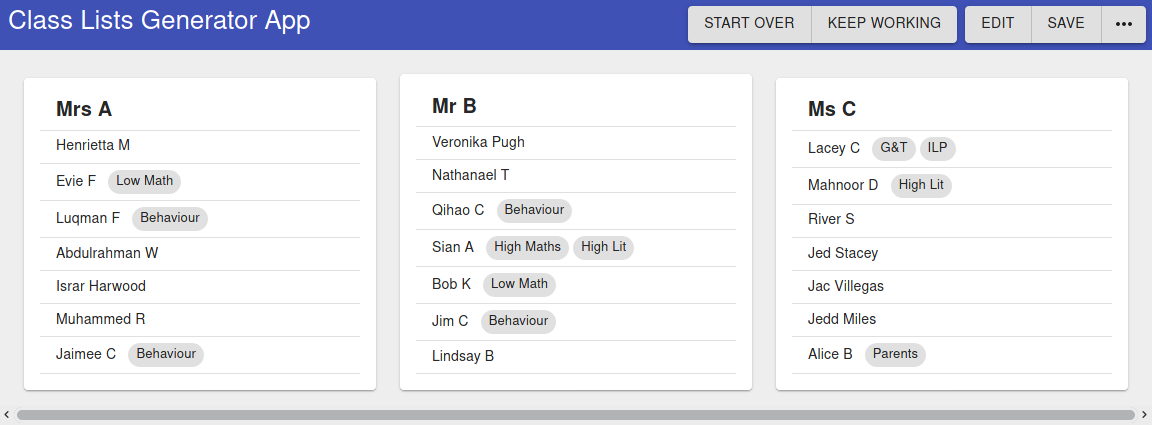
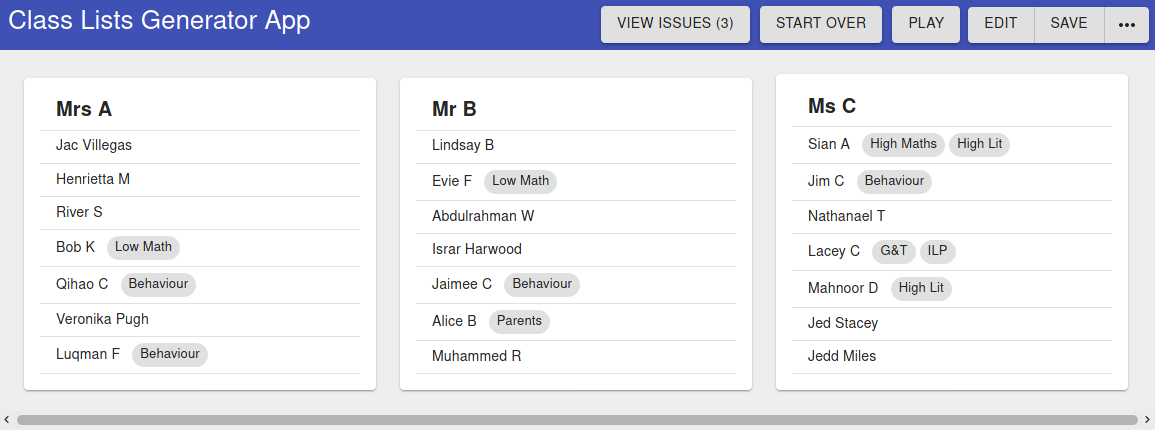
Fix usability issue with button widths

diff --git a/src/components/header.js b/src/components/header.js
@@ -49,19 +49,27 @@ export default function Header (props) {
   )}
   { props.showOptions &&
   <Box className={classes.headerRight}>
-    <Button onClick={props.viewIssues} color='default' variant='contained'>
+    <Button
+      onClick={props.viewIssues}
+      color='default' variant='contained' style={{marginRight: "10px"}}
+    >
       View issues ({props.issues.length})
     </Button>
     {props.state !== 'editing' &&
-      <ButtonGroup
-        variant='contained' color='default'
-        className={classes.headerButtonGroup}
+      <Button
+        onClick={props.restart}
+        color='default' variant='contained' style={{marginRight: "10px"}}
       >
-        <Button onClick={props.restart}>Start over</Button>
-        <Button onClick={() => props.toggleState('working')}>
-          {props.state === 'working' ? 'Pause' : 'Keep working'}
-        </Button>
-      </ButtonGroup>
+        Start over
+      </Button>
+    }
+    {props.state !== 'editing' &&
+      <Button
+        onClick={() => props.toggleState('working')}
+        color='default' variant='contained'
+      >
+        {props.state === 'working' ? 'Pause' : 'Play'}
+      </Button>
     }
     <ButtonGroup
       variant='contained' color='default'

diff --git a/docs/instructions.md b/docs/instructions.md
@@ -38,7 +38,7 @@ Now we can progress to using the app to generate class lists according to the co
 
 ## Step 4: Using the app to generate class lists
 
-Now, press "Keep Working" to start running the class optimisation process. This will calculate thousands of possible class lists and quickly improve the list. If you click the "View Issues" button you'll notice the number of issues decreasing. It will automatically stop when it has stopped improving. You can pause and resume the process or restart ("Start Over") at any time.
+Now, press "Play" to start running the class optimisation process. This will calculate thousands of possible class lists and quickly improve the list. If you click the "View Issues" button you'll notice the number of issues decreasing. It will automatically stop when it has stopped improving. You can pause and resume the process or restart ("Start Over") at any time.
 
 ## Step 5: Tweaking your class lists
 
